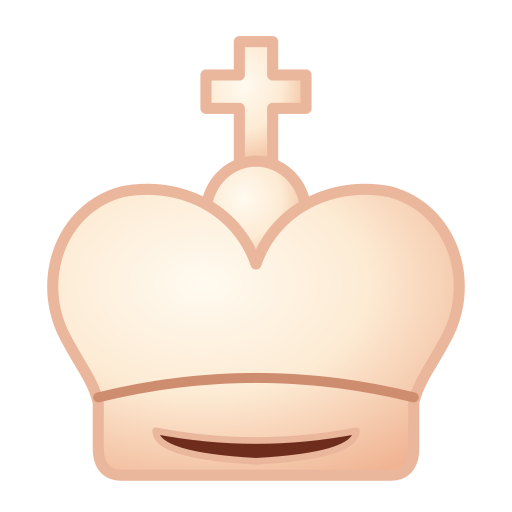
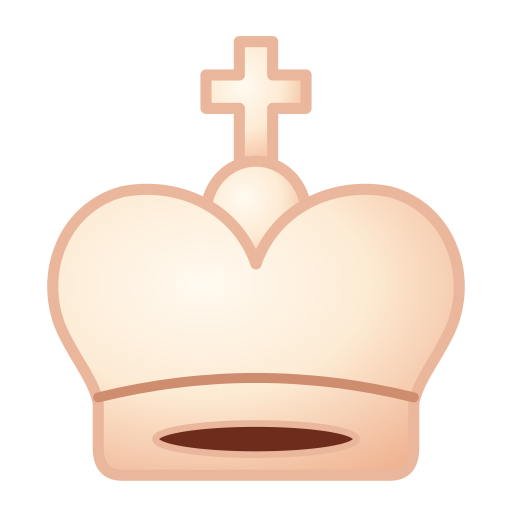
Use an elliptical slot on the king's band
Claude-Session: https://claude.ai/code/session_01CT1Vg17f3hVAVwgWoaKGNL

Changed region(s): [[0.2812, 0.8125, 0.6875, 0.9062]]

diff --git a/source/make_pieces.py b/source/make_pieces.py
@@ -120,7 +120,7 @@ def king():
         ("body", ell(50, 37, 9, 9.5)),                                                  # dome
         ("body", squeeze_x(body, K)),
         ("line", squeeze_x("M17,70 Q50,63 83,70", K)),                                # top of the band
-        ("slot", squeeze_x("M29,76 Q50,79.5 71,76 Q71,80.5 50,81.5 Q29,80.5 29,76 Z", K)),  # dark slot
+        ("slot", ell(50, 77.5, 21 * K, 2.8)),                                          # dark elliptical slot
     ]
 
 def queen():
